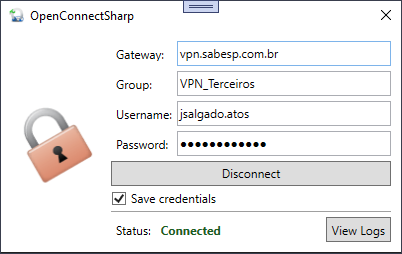
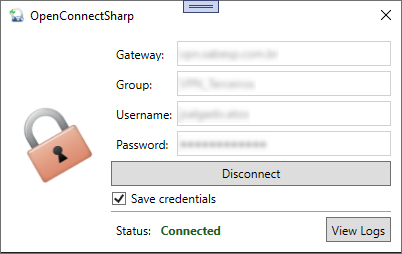
Update screenshots and README.

diff --git a/README.md b/README.md
@@ -1,4 +1,27 @@
 # OpenConnectSharp
 
+A windows-only alternative client for Cisco's AnyConnect VPN protocol based on [OpenConnect](https://www.infradead.org/openconnect/).
+
+# Features
+
+- An easy drop-in solution for OpenConnect GUI Windows users running exclusively on Cisco's AnyConnect protocol. This should prevent issues with user agent validation related [here](https://gitlab.com/openconnect/openconnect-gui/-/issues/331) and [here](https://gitlab.com/openconnect/openconnect-gui/-/issues/271).
+- Modern and simple .NET 7 based WPF application with a relatively low memory footprint.
+- Automatic management of Windows power events preventing disconnections whenever the computer sleeps or hibernates.
+
+# Instalation
+
+1. Clone this repository and build the solution.
+2. Install OpenConnect from the [official repository](https://www.infradead.org/openconnect/) . Don't forget to add it to the PATH.
+3. Copy [this script](https://github.com/teofilosalgado/OpenConnectSharp/blob/master/OpenConnectSharp.UI/Resources/vpnc-script-win.js) to your OpenConnect installation folder root (usually `C:\Program Files\OpenConnect`). Replace it if necessary.
+4. Run the built application.
+
+# Screenshots
+
 ![application screenshot while connected](static/connected.png)
 ![application screenshot while disconnected](static/disconnected.png)
+
+# To Do
+
+- [ ] Create an installer bundling the OpenConnect executable and script.
+- [ ] Design CI/CD pipelines using Github workflows.
+- [ ] Add support for other protocols.
